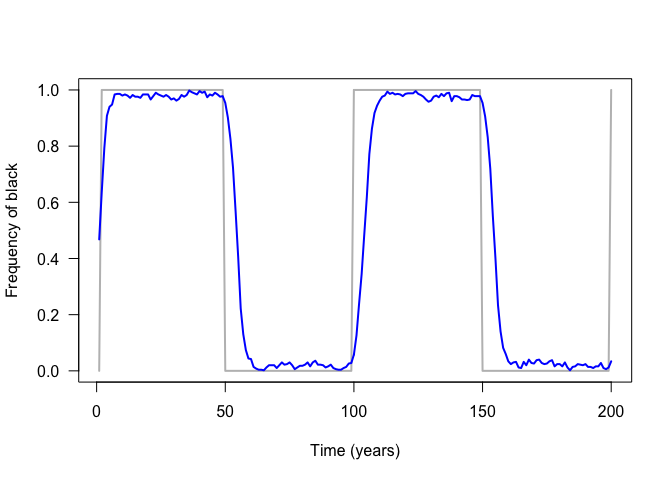
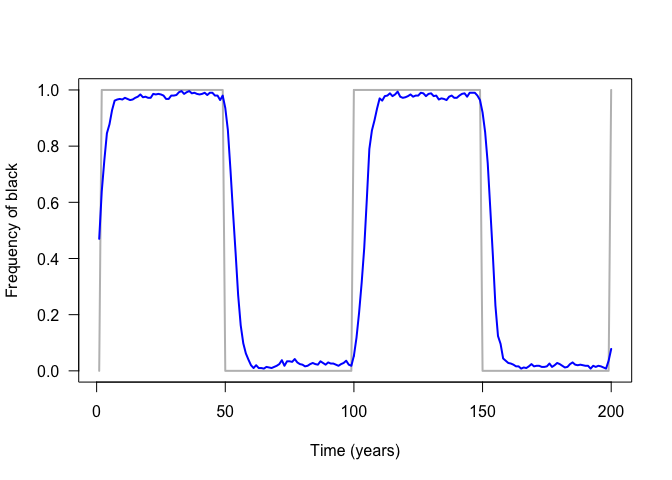
More info

diff --git a/README.md b/README.md
@@ -10,15 +10,16 @@
 The goal of this repository is to illustrate how to use R6 to perform
 individual-based simulations using R6 (<https://github.com/r-lib/R6>).
 
-After cloning this repos (note: this Repos is not a package), you can
-simply follow the steps described in “master.R” to run the simulation
-and then look around in the other files to see how this works (there are
-examples defined for each class that can really help\!).
+After cloning this repos (note: this repos is not a package), you can
+simply follow the steps described in `master.R` to run the simulations.
+Then explore the other files to see how this works (there are examples
+defined for each class that can really help\!).
 
 Here is a subset of such content:
 
 ``` r
 library(R6)
+set.seed(123)
 example <- FALSE
 source("World.R")
 source("Butterfly.R")
@@ -27,15 +28,21 @@ source("Simulation.R")
 simu <- Simulation$new(years = 200, N = 500, mutation_rate = 1e-2, period = 50)
 simu$run()
 #>   |                                                                              |                                                                      |   0%  |                                                                              |                                                                      |   1%  |                                                                              |=                                                                     |   1%  |                                                                              |=                                                                     |   2%  |                                                                              |==                                                                    |   3%  |                                                                              |==                                                                    |   4%  |                                                                              |===                                                                   |   4%  |                                                                              |===                                                                   |   5%  |                                                                              |====                                                                  |   5%  |                                                                              |====                                                                  |   6%  |                                                                              |=====                                                                 |   7%  |                                                                              |=====                                                                 |   8%  |                                                                              |======                                                                |   8%  |                                                                              |======                                                                |   9%  |                                                                              |=======                                                               |  10%  |                                                                              |=======                                                               |  11%  |                                                                              |========                                                              |  11%  |                                                                              |========                                                              |  12%  |                                                                              |=========                                                             |  13%  |                                                                              |=========                                                             |  14%  |                                                                              |==========                                                            |  14%  |                                                                              |==========                                                            |  15%  |                                                                              |===========                                                           |  15%  |                                                                              |===========                                                           |  16%  |                                                                              |============                                                          |  17%  |                                                                              |============                                                          |  18%  |                                                                              |=============                                                         |  18%  |                                                                              |=============                                                         |  19%  |                                                                              |==============                                                        |  20%  |                                                                              |==============                                                        |  21%  |                                                                              |===============                                                       |  21%  |                                                                              |===============                                                       |  22%  |                                                                              |================                                                      |  23%  |                                                                              |=================                                                     |  24%  |                                                                              |=================                                                     |  25%  |                                                                              |==================                                                    |  25%  |                                                                              |==================                                                    |  26%  |                                                                              |===================                                                   |  27%  |                                                                              |===================                                                   |  28%  |                                                                              |====================                                                  |  28%  |                                                                              |====================                                                  |  29%  |                                                                              |=====================                                                 |  30%  |                                                                              |=====================                                                 |  31%  |                                                                              |======================                                                |  31%  |                                                                              |======================                                                |  32%  |                                                                              |=======================                                               |  32%  |                                                                              |=======================                                               |  33%  |                                                                              |========================                                              |  34%  |                                                                              |========================                                              |  35%  |                                                                              |=========================                                             |  35%  |                                                                              |=========================                                             |  36%  |                                                                              |==========================                                            |  37%  |                                                                              |==========================                                            |  38%  |                                                                              |===========================                                           |  38%  |                                                                              |===========================                                           |  39%  |                                                                              |============================                                          |  40%  |                                                                              |============================                                          |  41%  |                                                                              |=============================                                         |  41%  |                                                                              |=============================                                         |  42%  |                                                                              |==============================                                        |  42%  |                                                                              |==============================                                        |  43%  |                                                                              |===============================                                       |  44%  |                                                                              |===============================                                       |  45%  |                                                                              |================================                                      |  45%  |                                                                              |================================                                      |  46%  |                                                                              |=================================                                     |  47%  |                                                                              |=================================                                     |  48%  |                                                                              |==================================                                    |  48%  |                                                                              |==================================                                    |  49%  |                                                                              |===================================                                   |  50%  |                                                                              |====================================                                  |  51%  |                                                                              |====================================                                  |  52%  |                                                                              |=====================================                                 |  52%  |                                                                              |=====================================                                 |  53%  |                                                                              |======================================                                |  54%  |                                                                              |======================================                                |  55%  |                                                                              |=======================================                               |  55%  |                                                                              |=======================================                               |  56%  |                                                                              |========================================                              |  57%  |                                                                              |========================================                              |  58%  |                                                                              |=========================================                             |  58%  |                                                                              |=========================================                             |  59%  |                                                                              |==========================================                            |  59%  |                                                                              |==========================================                            |  60%  |                                                                              |===========================================                           |  61%  |                                                                              |===========================================                           |  62%  |                                                                              |============================================                          |  62%  |                                                                              |============================================                          |  63%  |                                                                              |=============================================                         |  64%  |                                                                              |=============================================                         |  65%  |                                                                              |==============================================                        |  65%  |                                                                              |==============================================                        |  66%  |                                                                              |===============================================                       |  67%  |                                                                              |===============================================                       |  68%  |                                                                              |================================================                      |  68%  |                                                                              |================================================                      |  69%  |                                                                              |=================================================                     |  69%  |                                                                              |=================================================                     |  70%  |                                                                              |==================================================                    |  71%  |                                                                              |==================================================                    |  72%  |                                                                              |===================================================                   |  72%  |                                                                              |===================================================                   |  73%  |                                                                              |====================================================                  |  74%  |                                                                              |====================================================                  |  75%  |                                                                              |=====================================================                 |  75%  |                                                                              |=====================================================                 |  76%  |                                                                              |======================================================                |  77%  |                                                                              |=======================================================               |  78%  |                                                                              |=======================================================               |  79%  |                                                                              |========================================================              |  79%  |                                                                              |========================================================              |  80%  |                                                                              |=========================================================             |  81%  |                                                                              |=========================================================             |  82%  |                                                                              |==========================================================            |  82%  |                                                                              |==========================================================            |  83%  |                                                                              |===========================================================           |  84%  |                                                                              |===========================================================           |  85%  |                                                                              |============================================================          |  85%  |                                                                              |============================================================          |  86%  |                                                                              |=============================================================         |  86%  |                                                                              |=============================================================         |  87%  |                                                                              |==============================================================        |  88%  |                                                                              |==============================================================        |  89%  |                                                                              |===============================================================       |  89%  |                                                                              |===============================================================       |  90%  |                                                                              |================================================================      |  91%  |                                                                              |================================================================      |  92%  |                                                                              |=================================================================     |  92%  |                                                                              |=================================================================     |  93%  |                                                                              |==================================================================    |  94%  |                                                                              |==================================================================    |  95%  |                                                                              |===================================================================   |  95%  |                                                                              |===================================================================   |  96%  |                                                                              |====================================================================  |  96%  |                                                                              |====================================================================  |  97%  |                                                                              |===================================================================== |  98%  |                                                                              |===================================================================== |  99%  |                                                                              |======================================================================|  99%  |                                                                              |======================================================================| 100%
-#> [1] "time elapsed =  18 sec"
+#> [1] "time elapsed =  14 sec"
 simu$plot()
 ```
 
 ![](README_files/figure-gfm/unnamed-chunk-2-1.png)<!-- -->
 
-The example treated is akin to the well known peppered moth evolution
-story (<https://en.wikipedia.org/wiki/Peppered_moth_evolution>), but
-considering that the environment is in constant fluctuation. The grey
-line shows the colour of the environment (top os black and bottom is
-white) and the blue line shows the allele frequency for the gene coding
-the black colour in the moth (called butterfly in the files).
+The example treated here is inspired in part by the well known peppered
+moth evolution story
+(<https://en.wikipedia.org/wiki/Peppered_moth_evolution>). It considers
+that the environment is either black or white and that the colour
+switches regularly. The grey line on the plot shows the colour of the
+environment (top means black and bottom means white). The blue line
+shows how the allele frequency for the gene coding the black colour
+evolves through time. Evolution happens because of both drift and
+selection. The selection happens because I considered that moths (or
+butterflies in the files) have a lower fitness if they are not in an
+environment matching their colour (because, say, the predators spot them
+better).
